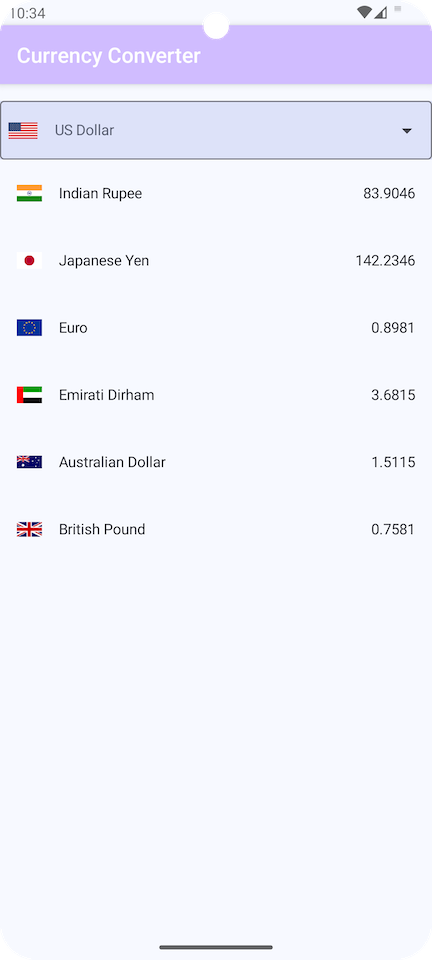
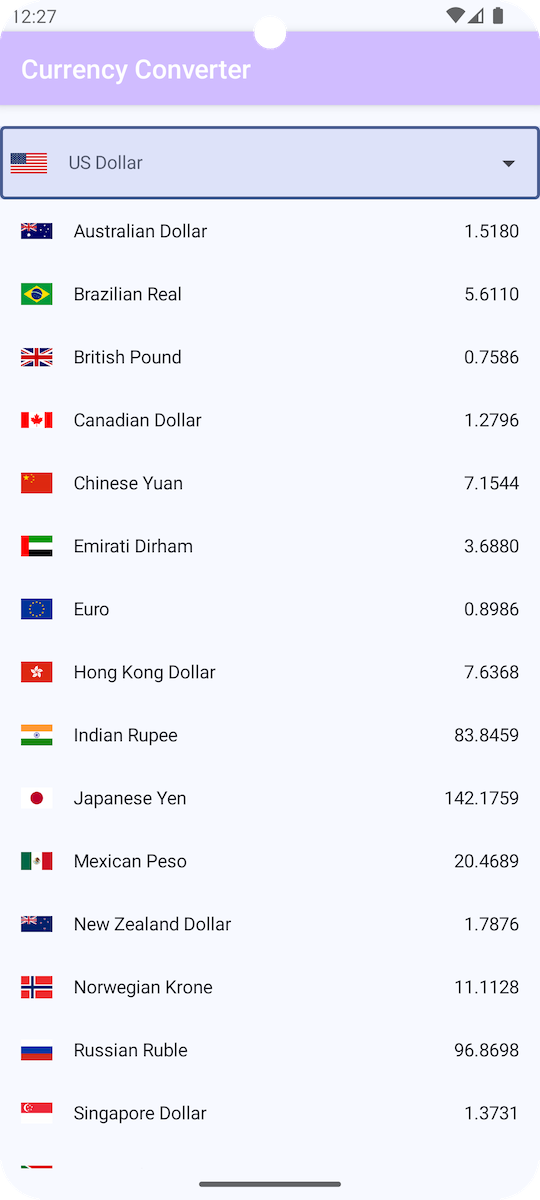
Introduced CACHING_TIME after which data is loaded from "network"
Also added CircularProgressIndicator to loading screen
Updated README

diff --git a/app/src/main/java/com/sundeep/demo/currconv/data/DefaultCurrencyRepository.kt b/app/src/main/java/com/sundeep/demo/currconv/data/DefaultCurrencyRepository.kt
@@ -12,29 +12,37 @@ import kotlinx.coroutines.flow.FlowCollector
 import kotlinx.coroutines.flow.flow
 import kotlinx.coroutines.withContext
 import timber.log.Timber
+import java.time.Instant
 import javax.inject.Inject
 
 class DefaultCurrencyRepository @Inject constructor(
     private val database: AppDatabase,
     private val dataSource: RemoteDataSource,
     private val preferencesDataSource: PreferencesDataSource
-) :
-    CurrencyRepository {
+) : CurrencyRepository {
+    companion object {
+        // Used 10sec for testing. In real world this probably would be 5 mins
+        const val CACHING_TIME = 10_000L
+    }
     private var currencies: List<CurrencyModel> = emptyList()
     private val allConversions: MutableMap<CurrencyModel, MutableMap<CurrencyModel, Double>> =
         HashMap()
+    private var lastFetchedCurrencyInMs = 0L
+    private var lastFetchedConversionsInMs = 0L
 
     override fun getAllCurrencies(): Flow<List<CurrencyModel>> {
         return flow {
-            if (currencies.isNotEmpty()) {
-                emit(currencies)
+            if (currencies.isEmpty()) {
+                currencies = getCurrenciesFromDB()
+            }
+            emit(currencies)
+            if (Instant.now().toEpochMilli() - lastFetchedCurrencyInMs < CACHING_TIME) {
                 return@flow
             }
-            currencies = getCurrenciesFromDB()
-            emit(currencies)
 
             currencies = getCurrenciesFromNetwork()
             insertCurrenciesToDB(currencies)
+            lastFetchedCurrencyInMs = Instant.now().toEpochMilli()
             emit(currencies)
         }
     }
@@ -63,19 +71,18 @@ class DefaultCurrencyRepository @Inject constructor(
 
     override fun getConversions(currency: CurrencyModel): Flow<List<ConversionPairModel>> {
         return flow {
-            if (allConversions.containsKey(currency)) {
-                emitConversionsFromMap(currency)
+            if (!allConversions.containsKey(currency)) {
+                populateAllConversionsFromDB()
+            }
+            emitConversionsFromMap(currency)
+            if (Instant.now().toEpochMilli() - lastFetchedConversionsInMs < CACHING_TIME) {
                 return@flow
             }
-            populateAllConversionsFromDB()
-            if (allConversions.containsKey(currency)) {
-                emitConversionsFromMap(currency)
-            }
+
             fetchConversionsFromNetworkToDB()
+            lastFetchedConversionsInMs = Instant.now().toEpochMilli()
             populateAllConversionsFromDB()
-            if (allConversions.containsKey(currency)) {
-                emitConversionsFromMap(currency)
-            }
+            emitConversionsFromMap(currency)
         }
     }
 

diff --git a/app/src/main/java/com/sundeep/demo/currconv/ui/compose/MainCompose.kt b/app/src/main/java/com/sundeep/demo/currconv/ui/compose/MainCompose.kt
@@ -13,6 +13,7 @@ import androidx.compose.foundation.layout.padding
 import androidx.compose.foundation.layout.size
 import androidx.compose.foundation.lazy.LazyColumn
 import androidx.compose.foundation.lazy.items
+import androidx.compose.material3.CircularProgressIndicator
 import androidx.compose.material3.DropdownMenuItem
 import androidx.compose.material3.ExperimentalMaterial3Api
 import androidx.compose.material3.ExposedDropdownMenuBox
@@ -71,11 +72,15 @@ class MainCompose {
         Box(
             modifier = modifier.fillMaxSize()
         ) {
-            Text(
-                modifier = Modifier.align(Alignment.Center),
-                text = stringResource(id = R.string.loading),
-                style = MaterialTheme.typography.titleLarge
-            )
+            Row(modifier = Modifier.align(Alignment.Center)) {
+                Text(
+                    modifier = Modifier.align(Alignment.CenterVertically),
+                    text = stringResource(id = R.string.loading),
+                    style = MaterialTheme.typography.titleLarge
+                )
+                CircularProgressIndicator(modifier = Modifier.padding(8.dp))
+            }
+
         }
     }
 
@@ -273,6 +278,14 @@ class MainCompose {
             GetCurrencyView(
                 currency = getSampleCurrencies()[0]
             )
+        }
+    }
+
+    @Preview(showBackground = true)
+    @Composable
+    fun LoadingViewPreview() {
+        CurrencyConverterTheme {
+            ShowLoadingScreen(modifier = Modifier)
         }
     }
 

diff --git a/README.md b/README.md
@@ -5,9 +5,11 @@ This is a sample project which demos a good Android app architecture using Kotli
 ## Architecture components
 
 * Unidirectional flow: The data flows using `StateFlow` from database and network
+* MVVM: MVVM pattern is applied. There are different data models for conversions.
 * Hilt Dependency Injection: Dependency injection is done using Hilt so that unit testing various components is easy
 * Room database: For local storage so that data is available at cold starts.
 * Compose: UI is built using Compose.
+* SharedPreference: Current currency is stored in SharedPreference. It can be stored in database too but using this approach it is demonstrated on how to use multiple data sources in repositories. 
 
 ## Unit testing
 
